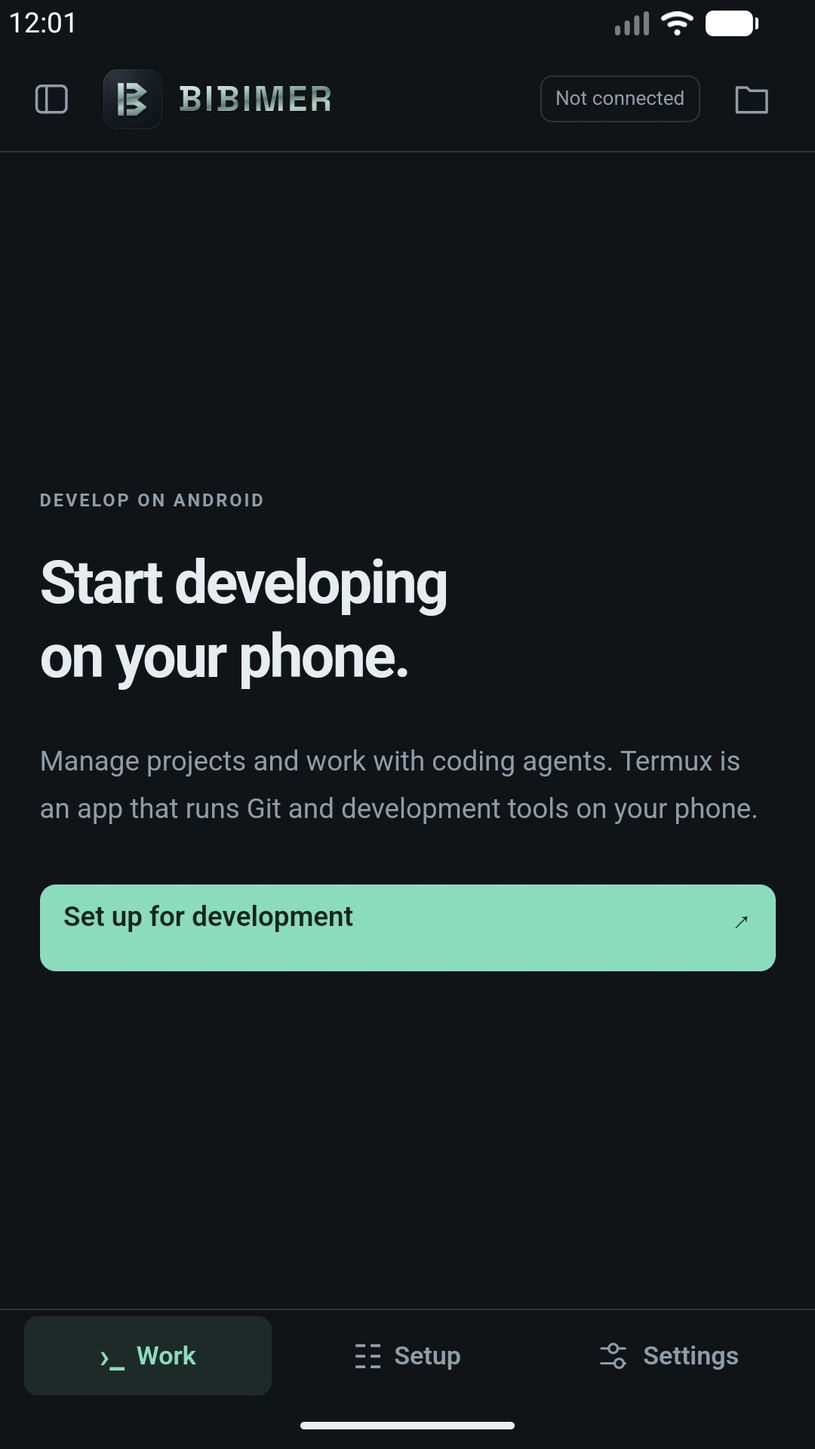
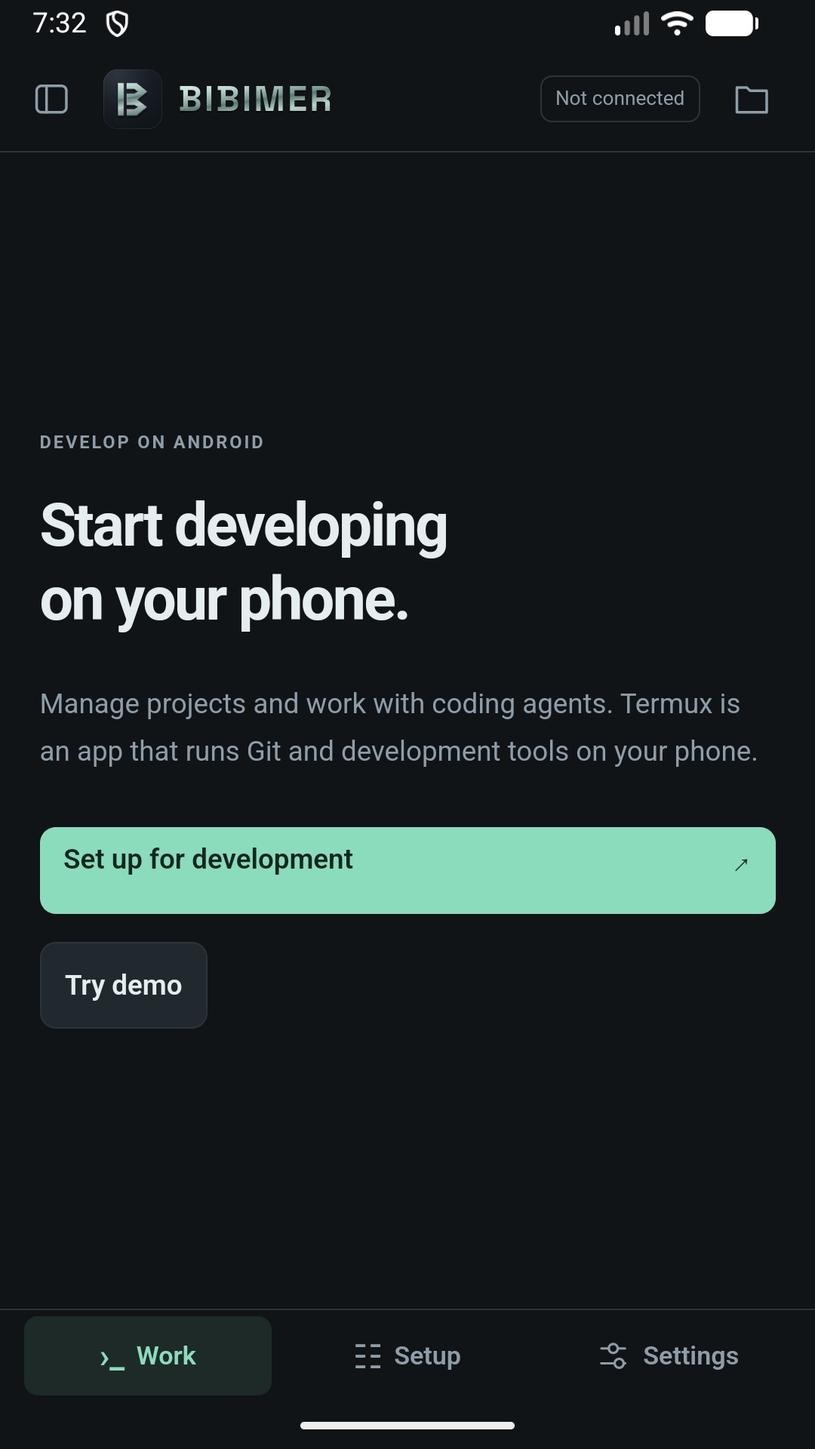
Record demo verification and submit first Google Play release

diff --git a/docs/google-play-release.md b/docs/google-play-release.md
@@ -1,28 +1,41 @@
 # Google Play 출시 준비
 
-2026-10-12 기준 Bibimer는 **출시 준비 중**이다. 현재 앱은 `app.bibimer`, `0.15.0 / versionCode 28`, 최소 API 26·target API 36이다. 기존 배포물은 로컬 개발 키로 서명한 APK이며 Play에 제출한 AAB가 아니다. 별도 업로드 키로 출시용 AAB 서명 빌드·번들 검증·테스트 에뮬레이터 설치를 완료했다. Play 내부 테스트에 versionCode 28로 업로드·초안 저장했다. 테스터 배포·프로덕션 심사는 아직 수행하지 않았다.
+2026-10-12 현재 앱은 **`app.bibimer` · `0.16.0 / versionCode 30` · 최소 API 26 · target API 36**이다. 계정 없는 가상 데모를 추가한 서명 AAB를 Play 내부 테스트에 게시했고 지정 테스터 1명에게 제공된다. 프로덕션 공개 출시·Google 승인·Google Play를 통한 실제 설치 검증은 완료하지 않았다. 내장 브리지는 0.15.0이며 실제 휴대폰 설치본과 운영 브리지는 유지했다.
 
 Bibimer의 제품 유형은 **모바일 ADE(Agent Development Environment, 에이전트 개발 환경)**다. 프로젝트·워크트리·코딩 에이전트 세션·대화·터미널을 관리하고, 실제 코딩 작업은 사용자가 연결한 에이전트가 수행한다. 슬로건은 **내 손안의 에이전트 개발 환경**이다. 영어·한국어 스토어 설명과 소개 그래픽, 웹사이트에 반영했으며 앱의 새 소개 문구는 2026-10-12 출시용 AAB에 포함했다. 기존 휴대폰 설치 APK는 교체하지 않았다.
 
 사용자가 **조직 개발자 계정**을 사용한다고 확인했다. 신규 개인 계정의 12명·14일 비공개 테스트 요건은 이 출시 일정에 적용하지 않는다. 조직 계정의 인증 완료 여부와 Console에 표시되는 출시 제한은 별도로 확인한다.
 
-## 제출 전 남은 작업
+## 현재 출시 상태 (2026-10-12)
 
-| 항목 | 현재 상태와 다음 작업 |
+프로덕션 **0.16.0 (30) - Initial release**와 등록정보/선언 변경 **12개**를 Google 검토에 제출했다. Console은 **검토 중인 변경사항 / 빠른 검사 실행 중**을 표시한다. 검사 통과 후 심사로 넘어가며 승인·공개 노출은 미확인이다. 기존 관리형 게시가 사용 중지되어 승인 후 자동 게시된다. [게시 개요](https://play.google.com/console/u/0/developers/5778023895269243113/app/4975090737012022496/publishing)에서 상태를 확인한다.
+
+
+- 내부 테스트: **활성 / 0.16.0 (30) - Demo internal test / 내부 테스터에게 제공됨 / 검토되지 않음**. [참여 링크](https://play.google.com/apps/internaltest/4701718894791581363). 지정 Google 계정 한 명의 목록을 선택했다. 비공개 이메일·초대 동의·설치 여부는 공개 저장소에 넣지 않는다.
[1 lines of base64/hex data omitted]
+- 로그인 세부정보: [영어 안내](../release/google-play/review-instructions.txt)·[공개 체험 안내](https://bibimer.app/review/)를 **계정 없는 데모 리소스**로 저장했다. 실제 로그·개인 제공자 자격 증명을 사용하지 않는다. 모든 기능 접근 확인은 격리된 예제 UI에 대한 선언이며 실제 외부 AI/CLI/GitHub 연동 검증이나 Google 수락 보장이 아니다.
+- 대상 연령 **13~15·16~17·18+**, 데이터 보안 전체 설문, FGS `specialUse` 설명·영상 링크를 **저장하고 첫 출시와 함께 검토에 제출**했다. 데이터 보안은 실제 외부 도구의 선택적 콘텐츠 전송을 공개하며 데모 자체의 AI 요청·입력 기록은 없다.
+- [알림 영상](https://bibimer.app/assets/notification-demo-0.16.0.mp4)은 58.1초의 실제 Android 캡처다. 가상 완료 이벤트로 실제 포그라운드 서비스·지속 알림·완료 알림·세션 이동·끄기를 시연한다. 실제 제공자 인증이나 AI 응답으로 표현하지 않는다. [한국어 안내](https://bibimer.app/ko/review/)는 별도 경로다.
+- 검증: Python 9개, Java 95개 행동 단언/11개 시나리오, Node 초안·실제 전송 controller·언어 상태 회귀 테스트, Android compile/D8·bundletool·서명 검증 통과. 에뮬레이터에서 예제 전송·서식·승인·질문·파일/Git·터미널·EN/KO·320dp·모드 복원·Android 백그라운드 알림을 확인했다. 큐/Steer·GitHub/handoff/import는 UI 요청 계약과 단위 검증이다. 실제 기기·paired 정상 모드 초안 복원·실제 제공자 실행·Google Play 설치는 별도 검증이 필요하다.
+
+현재 준비 항목을 제외한 아래 날짜별 기록은 이전 준비 이력이다. 최신 Console 검토 상태는 위 기록과 `listing.json`을 확인한다.
+
+## 현재 준비 항목과 후속 확인
+
+| 항목 | 상태 |
 | --- | --- |
-| Play Console 계정 | **조직 계정 사용 확인**. 사용자가 생성한 Bibimer 앱을 기존 로그인된 Chrome에서 직접 설정했다(2026-10-11). 광고·정부·금융·건강 없음과 생산성 카테고리, 공개 연락처를 저장했다. 조직 인증 완료 여부·실제 출시 제한은 별도 확인 필요. |
-| 패키지 | `app.bibimer`를 유지한다. 소유 계정의 Play 내부 테스트에서 첫 AAB가 versionCode 28로 정상 인식됐다. |
-| 빌드 | `scripts/build_aab.py` 추가. 출시 AAB 서명 빌드·bundletool 검증·에뮬레이터 설치 완료. Play 내부 테스트 초안 업로드·저장 완료. 테스터 선택·Play에서 설치 검증은 남아 있다. |
-| 서명 | 저장소 밖 별도 업로드 키로 AAB를 서명했다. Play 앱 서명 인증서를 다운로드하고 배포 인증서 SHA-256과 업로드 인증서를 각각 확인했다. 업로드 키의 안전한 별도 백업은 남아 있다. |
-| 개인정보처리방침 | [영어 정책](https://bibimer.app/privacy/)·[한국어 정책](https://bibimer.app/ko/privacy/) 게시. 앤디니어링(Andineering), andy@andineering.com, 시행일 2026-10-11. 앱 Settings 버튼은 캡처용 APK에 포함했고 외부 브라우저 실행을 확인했다. 실기기 확인 필요. |
-| 등록 정보 | [영어·한국어 문구와 이미지](../release/google-play/listing.json)를 Console에 저장, **검토를 위해 전송 준비 완료**. 지원 이메일·웹사이트 저장. 대상 연령은 사용자 13세 이상 선택이나 앱 액세스 선행 조건으로 Console 미적용. |
-| 가격·국가 | **무료**, 프로덕션의 **지원하는 전체 국가·지역** 저장 확인. Console은 기타 국가를 포함해 **178개 행 타겟팅됨, 0개 타겟팅되지 않음**을 표시한다. 국가 수와 Console 행 수는 구분한다. |
-| 콘텐츠 등급·광고 ID | 사용자 IARC 약관 동의 후 설문 저장, **IARC 완료됨**. 한국 3세 이상·유럽 PEGI 3 등으로 산정했으며 대상 연령 13세 이상과 별개다. 광고 ID 사용 **아니요** 저장. |
-| 이미지 | [512×512 아이콘](../release/google-play/graphics/icon-512.png), [영어](../release/google-play/graphics/feature-en-US.png)·[한국어](../release/google-play/graphics/feature-ko-KR.png) 1024×500 소개 그래픽, [실제 Android 앱 스크린샷](../release/google-play/screenshots/README.md) **언어별 4장·총 8장** 업로드·저장 완료. Work 첫 화면은 출시용 AAB에서 다시 캡처했고 Setup·Settings·실제 연결된 Terminal 화면을 함께 제공한다. |
-| 데이터 보안 | **설문 전체 초안 저장**. 메시지·파일/문서·기타 사용자 생성 콘텐츠의 선택적 수집/공유, 앱 기능 목적과 공개 삭제 요청 URL을 입력했다. 재조회에서 기존 답변 보존·마지막 저장 성공을 확인했다. 대상 연령 설정을 완료해야 설문을 제출할 수 있다. |
-| 앱 액세스 | 개인 계정·키 제공 없이 수동 Termux 연결·Terminal 실행을 에뮬레이터에서 검증했다. [영어 심사 안내 초안](../release/google-play/review-instructions.txt)을 준비했으나 Console의 모든 기능 접근 확인은 미완료라 저장하지 않았다. 외부 에이전트·GitHub 기능의 심사 접근은 별도 준비가 필요하다. |
-| 포그라운드 서비스 | `specialUse` 선언 사유·사용자 영향·실제 시연 영상 준비 필요. |
-| 실제 동작 | 새 기기 설치, Android 권한, WebView/IME, 백그라운드/잠금 화면 알림, 세 에이전트의 실제 응답·승인·재접속 검증 필요. |
+| 계정·패키지 | 사용자 확인 조직 계정, `app.bibimer`. 프로덕션 제출이 가능하며 조직·법적 프로필은 임의 변경하지 않았다. |
+| 빌드·서명 | AAB 30 검증·내부 테스트 게시·프로덕션 제출 완료. Play 배포 인증서와 업로드 인증서를 확인했다. 저장소 밖 업로드 키의 안전한 별도 백업은 남아 있다. |
+| 정책·연락처 | 별도 영어/한국어 공개 정책에 데모와 삭제 안내를 반영했다. 운영 주체 앤디니어링(Andineering), 공개 문의 andy@andineering.com. |
+| 등록정보·이미지 | 영어·한국어 설명, 아이콘·소개 그래픽, 언어별 스크린샷 **5장**을 저장·제출했다. [화면별 출처](../release/google-play/screenshots/README.md). |
+| 가격·국가 | 무료, 지원 국가 177개와 기타 국가 포함. Console의 178개 행과 실제 명명된 국가 수를 구분한다. |
+| 등급·대상 | IARC 설문 완료·제출, 사용자 선택 13세 이상 대상(13~15·16~17·18+) 반영. 콘텐츠 등급과 대상 연령은 별개다. |
+| 데이터 보안 | 전체 설문 최종 저장·제출. 메시지·파일/문서·기타 사용자 생성 콘텐츠의 선택적 수집/공유·앱 기능 목적과 삭제 URL을 공개한다. 모든 외부 도구의 전송 암호화를 보장하지 않는다. |
+| 심사 접근 | [영어 안내](../release/google-play/review-instructions.txt)와 무계정 데모를 제출했다. 개인 외부 계정·키는 제공하지 않는다. 실제 제공자 실행은 데모로 검증했다고 주장하지 않는다. |
+| 완료 알림 | FGS specialUse 설명과 실제 Android 조작 영상 제출. 가상 완료 이벤트로 서비스·알림 이동·끄기를 확인했으며 실제 기기·절전·실제 제공자의 동작은 별도 검증 대상이다. |
+| 내부 테스터 | 지정 계정 1명 등록·트랙 활성. 참여 동의 및 Google Play 설치는 미확인이다. 기존 개발 APK의 서명과 Play 서명은 구분해야 하며 운영 앱 데이터를 임의 제거하지 않는다. |
+| 프로덕션 | 제출 후 Google 사전 검사/심사 대기. 관리형 게시가 꺼져 승인되면 자동 게시된다. 실제 공개 노출을 확인한 뒤 출시 완료로 기록한다. |
+| App Links | HTTPS intent filter·라우팅·assetlinks.json은 미구현이다. Play 배포 인증서 지문은 확보했다. |
 
 신규 앱은 Android App Bundle과 Play App Signing을 사용한다. 패키지 이름은 등록 후 변경할 수 없으며, 업데이트마다 versionCode를 올린다. target API 36은 현재 신규 제출 요구사항에 맞는다. [앱 등록](https://support.google.com/googleplay/android-developer/answer/9859152), [API 요구사항](https://support.google.com/googleplay/android-developer/answer/11926878), [앱 서명](https://support.google.com/googleplay/android-developer/answer/9842756).
 

diff --git a/NEXT_SESSION.md b/NEXT_SESSION.md
@@ -18,6 +18,27 @@
 - **사용자가 명시적으로 빌드를 요청할 때만 APK를 빌드한다.** 작업 보고에서는 소스 구현 완료와 마지막 APK에 포함된 내용을 구분한다.
 - 휴대폰용 마지막 배포 파일은 `Download/Bibimer-0.15.0.apk`다. 2026-10-10의 `apk 빌드` 요청으로 GitHub 가져오기·민트 티타늄·Android 파일 열기를 포함했다. 2026-10-11에는 별도 승인으로 Mac의 `dist/bibimer-debug.apk`를 스토어 캡처용으로 빌드했다. 기존 휴대폰 배포 파일·운영 앱·브리지는 교체하지 않았다.
 
+## 프로덕션 첫 출시 제출 현황 (2026-10-12)
+
+- Console 초기 설정 항목이 사라지고 프로덕션 만들기가 활성화됐다. 같은 AAB 30을 라이브러리에서 선택해 **0.16.0 (30) - Initial release**를 저장했다. 오류 없이 매핑 파일 경고 1개만 확인했다. 지원 국가 177개 + 기타 국가, 영어/한국어 등록정보, IARC·13세 이상·정책·광고·데이터 보안·건강·카테고리를 포함한 변경 **12개**를 Google 검토에 전송했다. 앱 접근·광고 ID·정부·금융·FGS 선언도 검토 참고 항목에 포함된다.
+- 최종 관찰 상태는 **검토 중인 변경사항 / 일반적으로 발견되는 문제에 대한 빠른 검사 실행 중 (40%, 최대 9분)**이다. 사전 검사를 통과하면 심사로 넘어간다. 아직 Google 승인·공개 스토어 노출·실기기 Play 설치는 완료로 기록하지 않는다. 관리형 게시가 기존 **사용 중지**이므로 승인 후 자동 게시된다. 사용자에게 해당 동작을 알리고 출시 진행의 기존 승인 범위에서 제출했다.
+- 게시 개요 URL: https://play.google.com/console/u/0/developers/5778023895269243113/app/4975090737012022496/publishing . 증빙 `dist/play-release-setup/production-review-checks.jpg`. 심사 수단·FGS·데이터 처리 등 Google이 요구하는 후속 조치를 이 화면과 제출 활동에서 확인한다.
+- 지정 계정의 내부 테스트 참여 페이지까지 확인했다. 초대에는 개발자에게 이메일·이용 정보 공유 동의가 포함되어 있어 사용자에게 해당 단계의 동의를 요청했으며 아직 대신 수락하지 않았다. 비밀번호·API 키 요청은 없고 개인 에이전트를 제공하지 않는다. 실제 Google Play 설치와 기존 개발 APK의 다른 서명 때문에 발생할 수 있는 설치 전환은 사용자 기기에서 별도 확인한다. 운영 휴대폰의 앱을 제거하거나 데이터를 지우지 않았다.
+
+## 계정 없는 가상 데모·내부 테스트 출시 (2026-10-12)
+
+- 사용자가 계정 없는 데모와 새 출시 AAB를 승인했고, 실제 로그 내용 사용을 금지했다. Codex·Claude Code·OpenCode의 구조화된 출력 형식만 참고한 가상 세션 예제를 제공한다. 코드·diff·표·계획·도구·승인·질문·터미널을 표시하며 입력과 관계없이 예제를 재생한다. 실제 에이전트·셸·GitHub 요청이나 기기 프로젝트 파일 접근을 수행하지 않는다. 입력/질문 답변은 가상 기록에 보관하지 않는다.
+- `DemoWorkspace`는 파일·네트워크·프로세스 API 없는 메모리 구현이다. Native API가 데모 요청을 먼저 분기하며 모드 epoch로 이전 요청·폴링·서비스의 응답을 차단한다. 정상 연결·언어·입력·에이전트·알림 설정과 데모 설정을 분리했다. 정상 초안은 모든 세션의 입력·질문·선택 위치만 프로세스 RAM에 임시 보관하며 한 번 복원한다. 프로세스 종료 시 초안 복원은 보장하지 않는다. 정상 Termux 프로세스를 재시작하거나 종료하지 않는다.
+- 명시적 Try demo/데모 체험하기를 첫 화면·Setup·Settings에 추가했다. 데모 badge와 안내를 유지하고 Exit demo로 돌아간다. 실제 Send가 `queue:add`를 쓰는 UI 계약 오류와 null-key 초기 view 초안, 언어 변경 시 데모 badge가 실제 연결 표시로 바뀌는 오류를 검증 중 수정했다. 단순한 가상 상태와 기존 UI를 재사용했으며 새 의존성은 없다.
+- 최종 앱 **0.16.0 / versionCode 30**, 내장 브리지 **0.15.0**. `dist/play/bibimer-0.16.0-30-release.aab`, SHA-256 **dd893a74e5cc3ba796d303035bd983e00bf4da3f2671af9654dc0a1b2e3cf7ab**. 기존 저장소 밖 업로드 키로 서명했으며 bundletool·jarsigner·aapt2/javac/D8 검증과 AAB asset 원본 일치를 확인했다. 테스트용 universal APK를 에뮬레이터에 `-r`로 업데이트했다. 실제 휴대폰 APK·운영 브리지는 변경하지 않았다.
+- Play 내부 테스트 **활성**, **0.16.0 (30) - Demo internal test**, **내부 테스터에게 제공됨 / 검토되지 않음**을 확인했다. 사용자 지정 Google 계정 한 명이 포함된 Andy 목록을 선택·저장했다. 이메일은 Console 비공개 목록에만 보관하며 공개 문서에 기록하지 않는다. 28·29는 출시 초안에서 제외하고 아티팩트 라이브러리에 유지한다. 난독화를 사용하지 않아 가독화 매핑 파일 경고 1개만 있으며 오류는 없다.
+- 두 언어 스토어 설명에 무계정 데모와 실제 Termux 준비를 구분해 추가했다. 각 언어 스크린샷 5장(Work → Setup → Settings → 실제 Terminal → 명시적 Demo)을 리뷰 화면에서 확인·저장했다. 첫 화면·데모는 AAB 30에서 캡처했고 기존 Setup·Settings·실제 Terminal은 이전 캡처를 유지한다. 새 데모 screenshot의 모든 내용은 가상이며 실제 에이전트 로그를 사용하지 않는다.
+- 테스트 참여 링크: https://play.google.com/apps/internaltest/4701718894791581363 . 지정 계정의 실제 초대 페이지가 열린다. `Accept invite`에는 이메일·이용 정보 공유 동의가 표시되어 대신 수락하지 않았다. 테스터의 참여 동의·Google Play를 통한 설치 검증은 아직 미완료다. 에뮬레이터 직접 설치를 Play 설치 검증으로 보고하지 않는다.
+- Console에 472자 영어 데모 안내와 https://bibimer.app/review/ 링크를 로그인 세부정보로 저장했다. 전체 접근 확인은 명시적인 계정 없는 데모 리소스에 대해 선택했으며 실제 AI·GitHub 외부 계정은 제공하지 않는다. 가상 예제와 실제 외부 도구의 범위를 공개 안내에 명시했다. Google의 해당 심사 수단 수락이나 실제 연동 승인으로 간주하지 않는다. 13~15·16~17·18+ 대상 연령, 데이터 보안 최종 설문, FGS specialUse 설명·영상 링크도 각각 저장 확인했다. Google 검토 제출 여부는 뒤의 최종 상태 기록을 확인한다.
+- 영어·한국어 공개 정책에 데모의 메모리 처리·입력 미보관·설정 분리를 설명하고, `/review/`·`/ko/review/`에 별도 언어의 체험·심사 안내를 제공했다. 실제 Android 화면으로 58.1초 알림 영상을 촬영했다. 가상 완료 이벤트로 실제 서비스·알림·세션 이동·끄기를 시연하며 실제 AI 응답이나 제공자 인증 검증이라고 주장하지 않는다. 영상: https://bibimer.app/assets/notification-demo-0.16.0.mp4 . 최종 Pages 배포 `https://60e7bace.bibimer.pages.dev`.
+- 검증: Python 9개 테스트, 가상 backend Java **95개 행동 단언 / 11개 시나리오**, 실제 JS 입력 controller와 초안 복원 Node 테스트, 언어 refresh의 데모/실제 연결 구분 회귀 테스트, JS 구문·diff 검사를 통과했다. Java 8/deprecated 경고는 기존과 같으며 빌드 오류는 없다. ADB에서 첫 전송의 입력 대체, 임의 slash 입력, 승인·질문 완료, 세 에이전트 형식 전환, 모델·추론 자체 선택 UI, 가상 파일·Git 상태·기록, 터미널 입력 대체, 알림 거절 후 사용, 허용 후 Home 백그라운드 완료 알림·해당 세션 이동·감시 중지를 확인했다. 큐 FIFO·Steer·가져오기·handoff·GitHub 요청 계약은 단위 검증이며 실제 제공자 통신 검증이 아니다.
+- 앱 영어·한국어 UI, 320dp에서 조작 영역, 강제 종료 후 데모 상태·저장된 UI 언어, 종료 후 정상 언어 복원을 확인했다. 데모 기록은 작성된 언어의 로그로 남으며 앱 언어 변경으로 기존 로그를 번역하지 않는다. 기존 paired 실환경의 RAM 초안 왕복·실기기·절전·브리지 재시작·실제 제공자 통신은 이번에 검증하지 않았다. 시각 판정 **94점 pass**, `.omx/state/demo-release/ralph-progress.json`. 테스트 에뮬레이터는 size 1080×2400·density 420 원래 값으로 복원하고 종료했다.
+
 ## 출시 절차 계속 진행 (2026-10-12)
 
 - Play 데이터 보안 설문 전체 초안을 저장했다. 재조회 시 수집/공유·계정 생성 없음·외부 계정 설명·세 유형 처리의 보존을 확인하고, 삭제 안내 URL 변경 후 **변경사항이 저장되었습니다**를 확인했다. 메시지·파일/문서·기타 사용자 생성 콘텐츠를 선택적 수집/공유·앱 기능 목적·비일시적 처리로 공개한다. 모든 외부 CLI/도구/엔드포인트의 암호화를 확인하지 않아 전송 암호화 보장 항목은 아니요다. 최종 신고 전 실제 지원 제공자의 별도 계정·진단 데이터와 암호화 범위를 다시 검토한다.

diff --git a/release/google-play/screenshots/README.md b/release/google-play/screenshots/README.md
@@ -1,19 +1,17 @@
 # Play 스토어용 실제 앱 화면
 
-2026-10-11 사용자 요청으로 캡처용 APK를 빌드하고 Android 에뮬레이터에 설치했다. 사용자가 승인한 ADB 조작·캡처로 영어·한국어 각각 네 장을 준비하고 Play Console 기본 등록정보에 저장했다.
+영어·한국어 각각 **5장, 총 10장**을 Play Console 기본 등록정보에 저장했다. 사용자가 승인한 ADB로 Android 에뮬레이터의 실제 앱을 캡처했다. 첫 화면과 데모 화면은 2026-10-12 최종 출시 AAB **0.16.0 / versionCode 30**의 파생 APK다.
 
 | 순서 | 파일 | 화면 |
 | --- | --- | --- |
-| 1 | `en-US/01-work.jpg`, `ko-KR/01-work.jpg` | Work 시작 화면, 연결 전 |
+| 1 | `en-US/01-work.jpg`, `ko-KR/01-work.jpg` | Work 시작 화면, 연결 전·데모 체험 버튼 |
 | 2 | `en-US/02-setup.jpg`, `ko-KR/02-setup.jpg` | Setup 설치·연동 안내, Termux 설치 필요 |
 | 3 | `en-US/03-settings.jpg`, `ko-KR/03-settings.jpg` | Settings 언어·Enter·알림 설정 |
 | 4 | `en-US/04-terminal.png`, `ko-KR/04-terminal.png` | 실제 Termux 연결·테스트 프로젝트에서 Terminal `pwd` 실행 |
+| 5 | `en-US/05-demo.png`, `ko-KR/05-demo.png` | 실제 앱의 명시적 데모: 가상 Codex 형식의 코드·Markdown 예제, 실제 기록 사용 없음 |
 
-- 앱: `app.bibimer`, 0.15.0 / versionCode 28. Work 첫 화면은 출시용 AAB의 파생 APK, 나머지는 `dist/bibimer-debug.apk`에서 캡처했다.
-- AVD: `Medium_Phone_API_36.1`, Android 36.1 Google APIs Play Store ARM64, `emulator-5554`.
-- 캡처: 1080×1920, 9:16. ADB `screencap` 원본 PNG를 macOS `sips`로 JPEG 변환했다(새 1번 품질 92, 2~3번 품질 95). 4번은 원본 PNG다. 화면 합성·문구 오버레이·가짜 대화는 추가하지 않았다. `play-review`는 검증 중 실제로 만든 Termux 폴더다.
-- 원본과 빌드 로그: Git 제외 `dist/store-capture/`, `.tools/store-capture-build.log`.
-- 1~3번은 Termux 설치 전 화면이다. 4번은 공식 Termux 0.118.3과 내장 브리지를 수동 설치·연결한 뒤 캡처했다. 개인 에이전트 계정·API 키 없이 셸을 실행하고 프로젝트 경로 출력을 확인했다. Settings 왕복·앱 재열기 후 같은 세션 실행 상태도 확인했다. AI 에이전트 실행·백그라운드 완료 알림 검증을 대신하지 않는다.
-- Setup·Settings·Terminal은 Mac의 별도 로컬 개발 키로 서명한 캡처 전용 APK에서 캡처했다. 2026-10-12 Work 첫 화면은 사용자가 승인한 출시용 AAB에서 파생한 업로드 키 서명 APK로 다시 캡처해 자연스러운 첫 화면과 휴대폰 개발 소개를 반영했다. 영어 첫 실행, 한국어 전환과 앱 재실행 후 언어 유지도 확인했다. 실제 휴대폰 배포 APK·운영 브리지는 교체하지 않았다.
-
-영어·한국어 등록정보에서 아이콘·각 언어의 소개 그래픽·스크린샷 4장씩의 순서가 저장된 것을 확인했다. 2026-10-12 새 Work 화면도 두 언어 모두 첫 번째에 배치·저장했다. Console 상태는 **검토를 위해 전송 준비 완료**이며 앱 심사 제출·출시는 하지 않았다. 최신 증빙은 `dist/play-release-setup/store-new-work-en.jpg`, `store-new-work-ko.jpg`에 있다.
+- AVD: `Medium_Phone_API_36.1`, Android 36.1, `emulator-5554`.
+- 모두 1080×1920, 9:16. ADB `screencap`의 원본 PNG를 사용하며 1번은 macOS `sips`로 JPEG 품질 90으로 내보냈다. 2~3번은 기존 품질 95 JPEG, 4~5번은 PNG다. 이미지 합성이나 문구 오버레이를 추가하지 않았다. 5번의 대화는 앱에 구현된 가상의 예제이며 Demo/데모 안내로 구분한다. 개인 에이전트 로그·계정·API 키를 사용하지 않는다.
+- 2~4번은 2026-10-11 캡처용 0.15.0 / code 28 APK다. 4번의 `play-review`는 테스트 에뮬레이터에서 실제로 만든 Termux 폴더이며 셸 출력이다. AI 에이전트 실행을 뜻하지 않는다. 1·5번은 업로드 키 서명 AAB 30의 파생 APK로 다시 캡처했다. 실제 휴대폰 배포 APK·운영 브리지는 변경하지 않았다.
+- 영어·한국어 각각 Work → Setup → Settings → Terminal → Demo 순서로 리뷰 화면을 확인하고 저장 성공을 확인했다. 등록정보 상태는 **검토를 위해 전송 준비 완료**다. 내부 테스트 출시와 프로덕션 심사·공개 출시는 구분한다.
+- 원본과 검증 증빙은 Git 제외 `dist/demo-release/`, `dist/play-release-setup/store-demo-saved.jpg`에 있다. ADB 에뮬레이터를 원래 1080×2400·density 420으로 복원하고 종료했다.

diff --git a/release/website/README.md b/release/website/README.md
@@ -44,3 +44,7 @@ python3 -m http.server 8877 --bind 127.0.0.1 --directory release/website/public
 ```
 
 앱 Settings에 기존 외부 브라우저 열기 경로로 고정된 `https://bibimer.app/privacy/` 버튼을 추가하고 사용자 요청의 캡처용 APK에 포함했다. 영어·한국어 표시와 외부 Chrome 실행을 에뮬레이터에서 확인했다. Chrome 최초 실행 약관 단계에서 멈췄으므로 앱에서 정책 페이지 로드·실기기 브라우저 호출은 미검증이다. 기존 휴대폰 배포 APK는 교체하지 않았다. 기본 CLI OAuth 권한으로 zone setting·RUM 설정 변경은 403이므로 권한을 확대하지 않았다. Cloudflare 공식 문서의 `no-transform` 헤더로 이메일 가림과 Web Analytics 자동 삽입을 막는다. Play 앱 서명 인증서는 확인했으나 HTTPS App Links의 앱 intent filter·라우팅은 구현하지 않았다. `assetlinks.json`도 해당 기능과 함께 구현·검증할 때 게시한다.
+
+## 계정 없는 데모 안내 (2026-10-12)
+
+`/review/`와 `/ko/review/`는 별도 언어의 체험·심사 안내이며 두 정책에도 데모 처리 범위를 추가했다. 계정 없이 가상 구조화 로그를 재생하고 실제 AI 요청·명령·프로젝트 파일 접근을 하지 않는다. 58.1초 MP4는 실제 Android 포그라운드 서비스·알림·세션 이동·끄기를 가상 완료 이벤트로 시연한다. 제공자 인증·실제 AI 응답 검증으로 주장하지 않는다. 영상은 자체 호스팅이며 광고·외부 플레이어 스크립트가 없다. 두 안내의 393px 가로 넘침 없음, 영상 metadata 58.1초 로드를 브라우저에서 확인했다. 정책의 처음 시행일은 유지했다. 최종 배포 `https://60e7bace.bibimer.pages.dev`.

diff --git a/README.ko.md b/README.ko.md
@@ -14,7 +14,7 @@ Bibimer는 **ADE(Agent Development Environment, 에이전트 개발 환경)**입
 
 ## 설치와 배포
 
-Bibimer는 개발 중이며 **Google Play 출시를 준비하고 있습니다. 아직 공개 APK 배포본은 없습니다.** 현재 개발 버전을 사용하려면 [빌드 안내](docs/development.md)를 참고하세요.
+Bibimer는 개발 중이며 **첫 Google Play 버전(0.16.0)을 심사에 제출했습니다. 공개 스토어 출시는 아직 확인되지 않았습니다.** 초대받은 사용자는 내부 테스트에 참여할 수 있습니다. GitHub 공개 APK 배포본은 없으며 개발 버전 빌드는 [빌드 안내](docs/development.md)를 참고하세요.
 
 앱의 최소 Android 버전은 8.0(API 26)입니다. 모든 Android 버전과 기기, 에이전트 설치 환경에서 동작을 확인한 것은 아닙니다.
 

diff --git a/README.md b/README.md
@@ -14,7 +14,7 @@ Bibimer is an **ADE (Agent Development Environment)**. Connected agents such as 
 
 ## Availability
 
-Bibimer is in active development. **The Google Play release is being prepared; there is no public APK release yet.** To try the current development version, follow the [build guide](docs/development.md) (currently in Korean).
+Bibimer is in active development. **The first Google Play release (0.16.0) has been submitted for review; public availability is not yet confirmed.** Invitation-only internal testing is available. There is no public GitHub APK release. To build the current development version, follow the [build guide](docs/development.md) (currently in Korean).
 
 The app targets Android 8.0 or later (API 26+). Compatibility with every Android version, device, or agent installation has not been verified.
 
